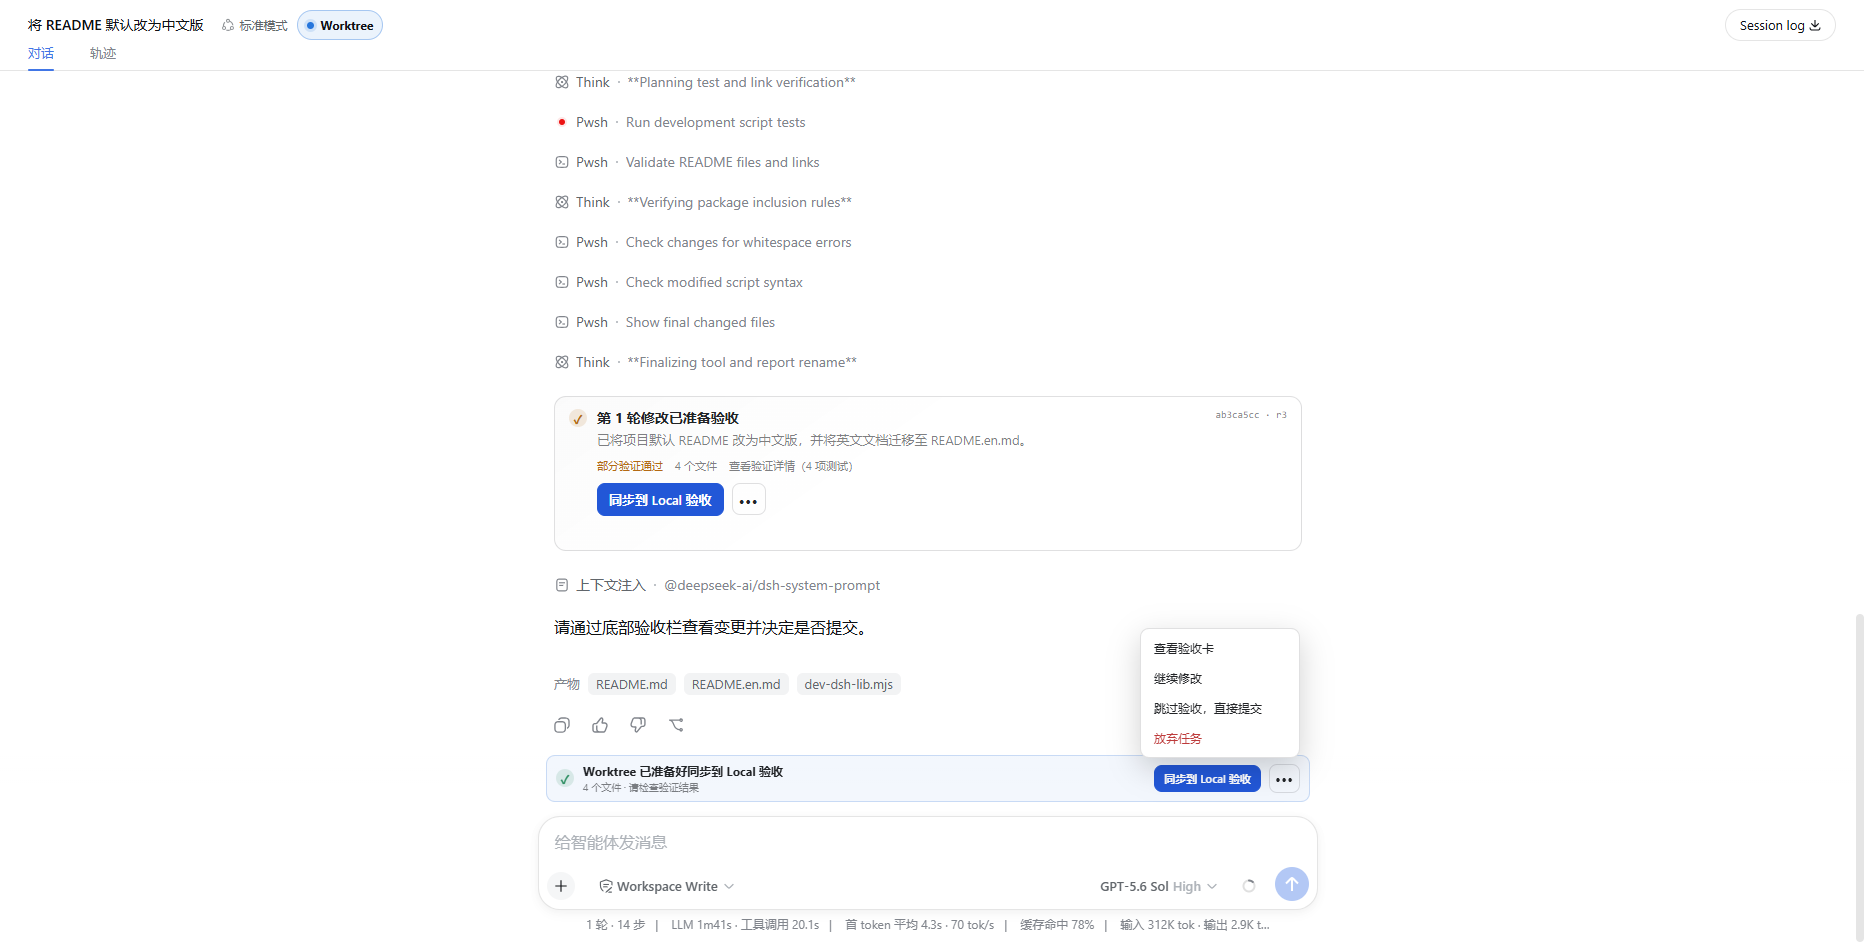
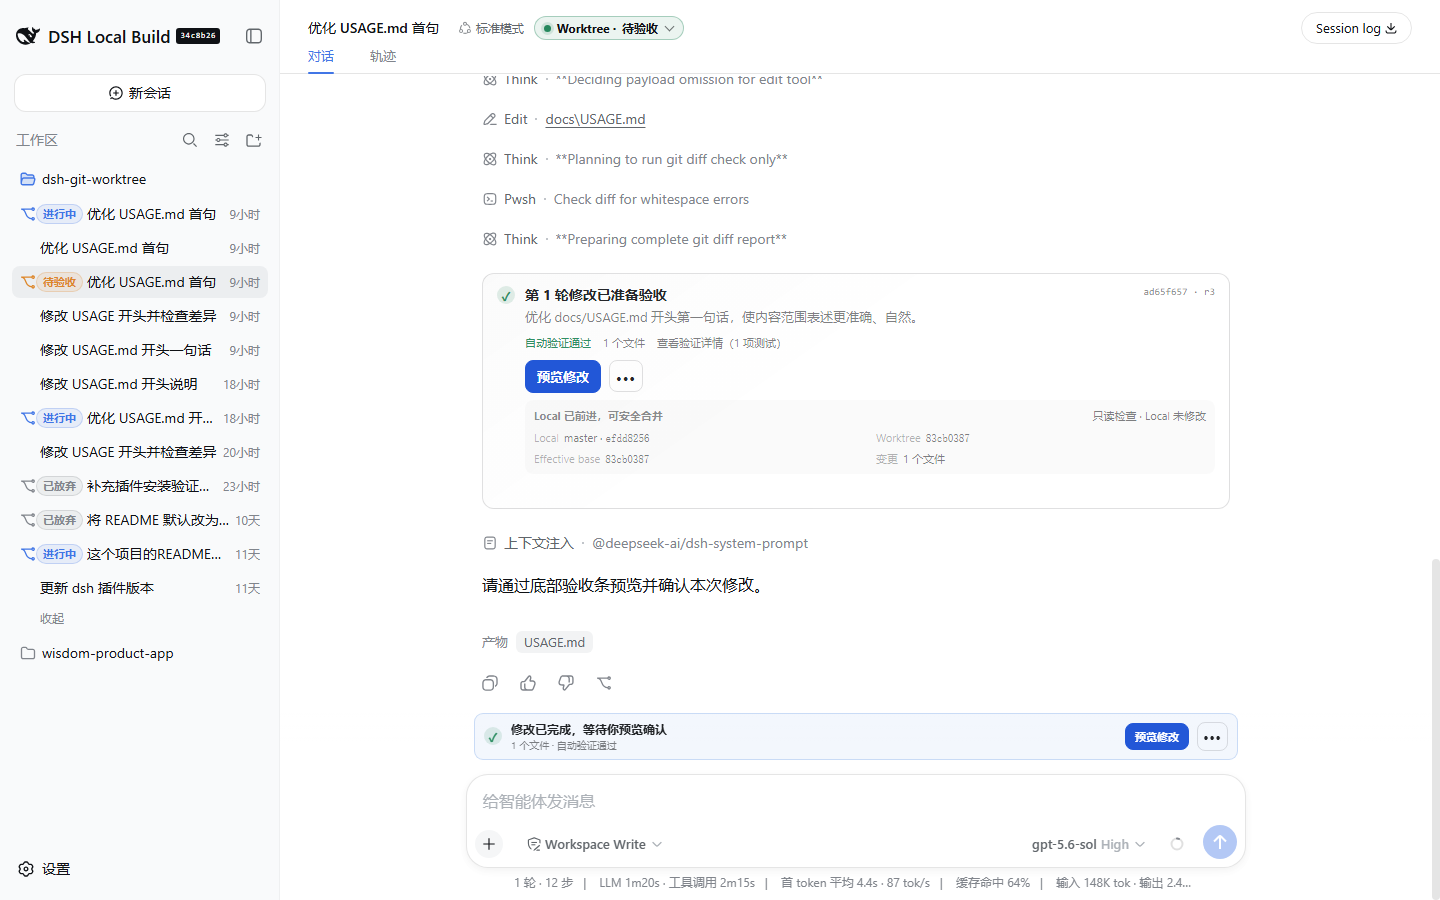
fix(sidebar): 恢复 Managed 会话整理操作
- 允许 Managed owner 使用官方重命名与归档且保持 Worktree 状态不变
- 从 Managed 菜单隐藏普通 Fork，并继续阻止第二 Session 与跨归属拖动
- 移除非法操作的浏览器原生提示框并强化冲突 Workspace 防护
- 修正双语 README、Usage、Release 与 0.7.0 Changelog 边界说明
- 更新项目聚合和 Ready 界面截图及发布回归门禁

diff --git a/tests/client-workspace-sidebar.test.tsx b/tests/client-workspace-sidebar.test.tsx
@@ -68,6 +68,8 @@ function browserProps(snapshot = state()): WorkspaceBrowserProps {
     useSessions: selector => selector(snapshot.sessions),
     useWorkspaces: selector => selector(snapshot.workspaces),
     startSession: vi.fn(),
+    open: vi.fn(),
+    renameSession: vi.fn(),
     forkSession: vi.fn(),
     archiveSession: vi.fn(),
     insertSessionBefore: vi.fn(),
@@ -79,6 +81,13 @@ function InspectBrowser(props: WorkspaceBrowserProps) {
   const sessions = props.useSessions(value => value.byId)
   return <div>
     <button onClick={() => { void props.startSession(managedWorkspace) }}>new managed</button>
+    <button onClick={() => { void props.renameSession(ownerSession, '新标题') }}>rename managed</button>
+    <button onClick={() => { void props.archiveSession(ownerSession) }}>archive managed</button>
+    <button onClick={() => { void props.forkSession(ownerSession) }}>fork managed</button>
+    <button onClick={() => { void props.insertSessionBefore(localWorkspace, ownerSession, localSession) }}>move managed</button>
+    <button onClick={() => { void props.renameSession(localSession, 'Local 新标题') }}>rename local</button>
+    <button onClick={() => { void props.archiveSession(localSession) }}>archive local</button>
+    <button onClick={() => { void props.forkSession(localSession) }}>fork local</button>
     {workspaces.map(workspace => <section key={workspace.workspaceId}>
       <h2>{workspace.title}</h2>
       {workspace.sessionIds.map(id => {
@@ -90,7 +99,7 @@ function InspectBrowser(props: WorkspaceBrowserProps) {
           data-worktree-kind={summary?.__dshGitWorktree?.kind}
           data-worktree-state={summary?.__dshGitWorktree?.state}
           data-worktree-label={summary?.__dshGitWorktree?.label}
-          onClick={() => { props.forkSession(id) }}
+          onClick={() => { props.open(id) }}
         >
           {summary?.displayTitle}
         </button>
@@ -136,7 +145,7 @@ describe('Managed Workspace sidebar', () => {
     expect(context.locale.register).toHaveBeenCalledWith('workspace', {})
   })
 
-  test('projects one owner Session directly into the Local project and blocks Managed Fork', async () => {
+  test('projects one owner Session, allows rename/archive, and silently blocks second-session operations', async () => {
     const alert = vi.spyOn(window, 'alert').mockImplementation(() => {})
     const props = browserProps()
     render(<ManagedOfficialWorkspaceBrowser
@@ -154,10 +163,25 @@ describe('Managed Workspace sidebar', () => {
     expect(screen.getByText('demo')).toBeTruthy()
     expect(screen.queryByText('demo--uuid--worktree')).toBeNull()
     fireEvent.click(owner)
+    fireEvent.click(screen.getByText('rename managed'))
+    fireEvent.click(screen.getByText('archive managed'))
+    fireEvent.click(screen.getByText('fork managed'))
+    fireEvent.click(screen.getByText('move managed'))
     fireEvent.click(screen.getByText('new managed'))
-    expect(props.forkSession).not.toHaveBeenCalled()
+    fireEvent.click(screen.getByText('rename local'))
+    fireEvent.click(screen.getByText('archive local'))
+    fireEvent.click(screen.getByText('fork local'))
+
+    expect(props.open).toHaveBeenCalledWith(ownerSession)
+    expect(props.renameSession).toHaveBeenCalledWith(ownerSession, '新标题')
+    expect(props.archiveSession).toHaveBeenCalledWith(ownerSession)
+    expect(props.renameSession).toHaveBeenCalledWith(localSession, 'Local 新标题')
+    expect(props.archiveSession).toHaveBeenCalledWith(localSession)
+    expect(props.forkSession).toHaveBeenCalledTimes(1)
+    expect(props.forkSession).toHaveBeenCalledWith(localSession)
+    expect(props.insertSessionBefore).not.toHaveBeenCalled()
     expect(props.startSession).not.toHaveBeenCalled()
-    expect(alert).toHaveBeenCalledTimes(2)
+    expect(alert).not.toHaveBeenCalled()
   })
 
   test('falls back to the untouched official projection when topology is unavailable', async () => {

diff --git a/src/client/workspace-sidebar/index.tsx b/src/client/workspace-sidebar/index.tsx
@@ -65,8 +65,10 @@ export function ManagedOfficialWorkspaceBrowser({
 
   const projectedWorkspaceState = useMemo<WorkspaceListState>(() => ({
     ...workspaceState,
-    items: projection.workspaces as unknown as WorkspaceListState['items'],
-  }), [projection.workspaces, workspaceState])
+    items: projection.workspaces.map(workspace => projection.protectedWorkspaceIds.has(workspace.workspaceId)
+      ? { ...workspace, __dshGitWorktreeProtected: true }
+      : workspace) as unknown as WorkspaceListState['items'],
+  }), [projection.protectedWorkspaceIds, projection.workspaces, workspaceState])
   const projectedSessionState = useMemo<SessionListState>(() => {
     const byId = { ...sessionState.byId }
     for (const sessionId of projection.suppressedSessionIds) delete byId[sessionId as keyof typeof byId]
@@ -98,35 +100,25 @@ export function ManagedOfficialWorkspaceBrowser({
     selector(projectedSessionState)) as WorkspaceBrowserProps['useSessions']
   const protectedIds = projection.protectedSessionIds
   const protectedWorkspaceIds = projection.protectedWorkspaceIds
-  const managedActionBlocked = (): void => {
-    window.alert('Managed Worktree 与 owner Session 一对一；请通过 Worktree 验收流程继续、保存或放弃任务。')
-  }
 
   return <OfficialBrowser
     {...props}
     useWorkspaces={useProjectedWorkspaces}
     useSessions={useProjectedSessions}
     startSession={async (workspaceId: WorkspaceId) => {
-      if (protectedWorkspaceIds.has(workspaceId)) managedActionBlocked()
-      else await props.startSession(workspaceId)
-    }}
-    renameSession={async (sessionId: SessionId, title: string) => {
-      if (protectedIds.has(sessionId)) managedActionBlocked()
-      else await props.renameSession(sessionId, title)
+      if (protectedWorkspaceIds.has(workspaceId)) return
+      await props.startSession(workspaceId)
     }}
     forkSession={(sessionId: SessionId) => {
-      if (protectedIds.has(sessionId)) managedActionBlocked()
-      else props.forkSession(sessionId)
-    }}
-    archiveSession={async (sessionId: SessionId) => {
-      if (protectedIds.has(sessionId)) managedActionBlocked()
-      else await props.archiveSession(sessionId)
+      if (protectedIds.has(sessionId)) return
+      props.forkSession(sessionId)
     }}
     insertSessionBefore={async (workspaceId: WorkspaceId, sessionId: SessionId, beforeSessionId?: SessionId) => {
-      if (protectedIds.has(sessionId) || (beforeSessionId !== undefined && protectedIds.has(beforeSessionId))) {
-        managedActionBlocked()
-        return
-      }
+      if (
+        protectedWorkspaceIds.has(workspaceId)
+        || protectedIds.has(sessionId)
+        || (beforeSessionId !== undefined && protectedIds.has(beforeSessionId))
+      ) return
       await props.insertSessionBefore(workspaceId, sessionId, beforeSessionId)
     }}
   />

diff --git a/tests/client-workspace-sidebar-profile.test.ts b/tests/client-workspace-sidebar-profile.test.ts
@@ -53,6 +53,11 @@ describe('Managed Workspace profile ownership', () => {
     expect(source).toContain('worktreeDecoration.ariaLabel')
     expect(source).toContain('"data-managed-worktree": "true"')
     expect(source).toContain('className: Rows_module_css_default.hoverStatus')
+    expect(source).toContain('worktreeDecoration === void 0 ? sessionMenuItems : sessionMenuItems.filter((item) => item.id !== "fork")')
+    expect(source).toContain('items: visibleSessionMenuItems')
+    expect(source).toContain('draggable: worktreeDecoration === void 0 && drag !== void 0')
+    expect(source).toContain('!protectedManagedWorkspace && (0, react_jsx_runtime.jsx)("button"')
+    expect(source).toContain('draggable: !protectedManagedWorkspace && drag !== void 0')
     expect(WORKTREE_STYLES).toContain('.dsh-git-worktree-sidebar-icon')
     expect(WORKTREE_STYLES).toContain('.dsh-git-worktree-sidebar-badge')
     expect(WORKTREE_STYLES).toContain('flex: 0 0 auto')

diff --git a/README.en.md b/README.en.md
@@ -24,8 +24,8 @@ When an agent edits Local directly, task changes can mix with existing staged, u
 
 ## Highlights
 
-- **Project-grouped sidebar**: each managed Worktree owner Session appears as a task row under its original Local project with lifecycle status, while ordinary Workspaces retain the official behavior.
-- **Real isolation**: every task gets its own Git Worktree, Workspace, and owner Session.
+- **Project-grouped sidebar**: each Managed owner appears under its original Local project with a Branch Icon and status Badge; ordinary Local Sessions keep the official behavior.
+- **Real isolation**: every task gets its own Git Worktree, Workspace, and unique owner Session.
 - **Human acceptance**: Ready lets the user choose **Preview changes**, **Confirm and save**, or another explicit action.
 - **Reversible Preview**: changes reach Local without an immediate Commit and can be rolled back safely.
 - **Task-only save**: final delivery creates one Commit for the accumulated task delta.
@@ -93,23 +93,15 @@ If pnpm build approval blocks a Git-source install, or you need complete command
 
 ## Screenshots
 
-### Create a Worktree Session
+### Project grouping and task status
 
-![Confirm creation and switch to the Worktree Session](docs/screenshots/01-create-worktree.png)
+![Managed Worktrees grouped under the original Local project](docs/screenshots/00-project-sidebar.png)
 
 ### Prepare the review
 
-![Agent completes the task and produces Ready for Review](docs/screenshots/02-ready-for-review.png)
+![Agent completes the task and prepares Preview changes](docs/screenshots/02-ready-for-review.png)
 
-### Preview changes
-
-![Changes are in Local Preview and await confirmation](docs/screenshots/03-local-preview.png)
-
-### Confirm and save
-
-![Confirm save and choose environment retention](docs/screenshots/04-commit-confirmation.png)
-
-See the [full usage guide](docs/USAGE.en.md#complete-delivery-example) for the remaining screenshots.
+See the [full usage guide](docs/USAGE.en.md#complete-delivery-example) for the complete flow.
 
 ## Safety boundary
 
@@ -122,7 +114,8 @@ For the full state machine, CAS, and recovery invariants, see:
 
 ## Current boundaries
 
-- Harness still displays Local and Worktree Sessions as separate Workspaces.
+- A normal Managed owner is grouped under its original Local project. If the owner is missing, another Session exists, or membership conflicts, the original Workspace remains visible instead of hiding uncertain data.
+- Managed owners can be renamed and archived. Worktree-aware Fork is not implemented yet, so the ordinary Fork action is hidden in this release.
 - Child agents inherit the parent Session cwd; the plugin does not create per-child Worktrees.
 - Checkpoint does not support editing, deleting, reordering, or arbitrary rollback of history.
 - Domi's global Manager, Local Maintenance, dependency snapshots, and full collaborator lifecycle are outside this plugin's scope.

diff --git a/docs/USAGE.en.md b/docs/USAGE.en.md
@@ -43,8 +43,9 @@ No Worktree is created before confirmation. The draft moves to a new isolated Se
 
 A Local project can still contain multiple ordinary Sessions. Each Managed Worktree has exactly one owner Session, so the sidebar shows that task Session and its delivery state directly instead of creating a UUID Workspace at the top level or an empty Worktree → Session nesting layer.
 
-- A Managed row opens its unique owner Session directly.
-- Ordinary rename, Fork, archive, drag, and New Session actions are blocked for Managed rows so they cannot create a second Session or bypass the Worktree lifecycle.
+- A Managed row opens its unique owner Session directly and keeps the official rename and archive actions. Archiving only changes sidebar visibility; it does not discard the task or change Worktree state.
+- Ordinary Fork is hidden in this release. A correct Worktree-aware Fork must create a new Managed Worktree and owner Session and is deferred to a later release.
+- Dragging Managed rows and creating a New Session inside a Managed Workspace remain blocked so they cannot create a second Session or break ownership.
 - A provably empty pre-session launcher is hidden from the sidebar projection; a real extra Session keeps the original Workspace visible for manual handling.
 - After cleanup, historical tasks remain under the original project as Completed or Discarded using the plugin Registry.
 - Unmanaged Workspaces and ordinary Sessions retain normal Workspace actions.
@@ -205,25 +206,19 @@ Read the Preflight message first. The cause may be a conflict, stale Review, bus
 
    ![Create Worktree Session](screenshots/01-create-worktree.png)
 
-2. The agent produces Ready for Review:
+2. The Managed owner is grouped under the original project and keeps its current task status visible:
+
+   ![Project-grouped sidebar](screenshots/00-project-sidebar.png)
+
+3. The agent produces Ready for Review with **Preview changes** as the primary action:
 
    ![Ready for Review](screenshots/02-ready-for-review.png)
 
-3. Preview changes:
+4. Inspect the result in Local Preview. Choose **Confirm and save**, or use the More menu to **Withdraw this preview**.
+5. On save, clean up immediately or retain the runtime environment when needed.
+6. After cleanup, choose **Start next iteration** in the same owner Session.
 
-   ![Local Preview](screenshots/03-local-preview.png)
-
-4. Confirm and save, choosing cleanup or retention:
-
-   ![Save confirmation](screenshots/04-commit-confirmation.png)
-
-5. Start the next iteration in the same Session:
-
-   ![Start next iteration](screenshots/05-next-iteration.png)
-
-6. Retain the runtime environment:
-
-   ![Retain environment](screenshots/06-retain-environment.png)
+> UI copy follows the installed version. This guide no longer embeds screenshots with the retired “Sync to Local review / Accept and commit” wording.
 
 ## Local development
 

diff --git a/docs/USAGE.md b/docs/USAGE.md
@@ -43,8 +43,9 @@ stateDiagram-v2
 
 Local 项目仍可包含多个普通会话。每个 Managed Worktree 只对应一个 owner Session，因此侧边栏直接显示任务会话和状态，不再把 UUID Worktree 作为独立顶级项目，也不会增加“Worktree → Session”的空层级。
 
-- Managed 行可直接打开 owner Session；
-- Managed 行的普通重命名、Fork、归档、拖动和“新会话”会被阻止，避免产生第二个 Session 或绕过 Worktree 生命周期；
+- Managed 行可直接打开 owner Session，并保留官方重命名与归档；归档只影响侧边栏可见性，不会放弃任务或改变 Worktree 状态；
+- 普通 Fork 在本版隐藏；正确的 Worktree-aware Fork 需要创建新的 Managed Worktree 与 owner Session，将在后续版本提供；
+- Managed 行拖动和 Managed Workspace 的“新会话”入口会被阻止，避免产生第二个 Session 或破坏归属；
 - 可证明为空的预会话 launcher 会从侧边栏投影中隐藏，真实额外 Session 则保留原 Workspace 以便人工处理；
 - cleanup 后，历史任务仍按 Registry 归入原项目并显示“已完成”或“已放弃”；
 - 非托管 Workspace 和普通会话继续使用标准 Workspace 操作。
@@ -205,25 +206,19 @@ allowBuilds:
 
    ![创建 Worktree Session](screenshots/01-create-worktree.png)
 
-2. Agent 生成 Ready for Review：
+2. Managed owner 聚合到原项目，并持续显示当前任务状态：
+
+   ![项目聚合侧边栏](screenshots/00-project-sidebar.png)
+
+3. Agent 完成后生成 Ready for Review，主操作为“预览修改”：
 
    ![Ready for Review](screenshots/02-ready-for-review.png)
 
-3. 预览修改：
+4. Local Preview 中确认实际效果；可以“确认并保存”，也可以从更多菜单“撤回本次预览”。
+5. 保存时选择立即 cleanup，或按需保留运行环境。
+6. cleanup 完成后，可在同一 owner Session 中“开始下一轮修改”。
 
-   ![Local Preview](screenshots/03-local-preview.png)
-
-4. 确认并保存，选择 cleanup 或保留环境：
-
-   ![保存确认](screenshots/04-commit-confirmation.png)
-
-5. 在同一 Session 开始下一轮：
-
-   ![开始下一轮](screenshots/05-next-iteration.png)
-
-6. 保留运行环境：
-
-   ![保留环境](screenshots/06-retain-environment.png)
+> 界面文案以当前安装版本为准。本指南不再展示旧版“同步到 Local 验收 / 验收通过并提交”截图。
 
 ## 本地开发
 

diff --git a/README.md b/README.md
@@ -24,8 +24,8 @@
 
 ## 核心能力
 
-- **真实隔离**：每个任务拥有独立 Git Worktree、Workspace 和 owner Session。
-- **项目聚合侧边栏**：Managed Worktree 的 owner Session 直接归入原 Local 项目，以任务行展示生命周期状态；普通 Workspace 保留官方行为。
+- **真实隔离**：每个任务拥有独立 Git Worktree、Workspace 和唯一 owner Session。
+- **项目聚合侧边栏**：Managed owner 以 Branch Icon 和状态 Badge 直接归入原 Local 项目；普通 Local Session 保持官方行为。
 - **人工验收**：Ready 后由用户选择“预览修改”“确认并保存”或其他操作。
 - **可撤回 Preview**：预览写入 Local 但不立即创建 Commit，可安全撤回。
 - **单任务保存**：最终只为本轮累计增量创建一个 Commit。
@@ -93,23 +93,15 @@ dsh plugin --profile web add github:wloops/dsh-git-worktree#v0.7.0
 
 ## 界面预览
 
-### 创建 Worktree Session
+### 项目聚合与任务状态
 
-![确认创建并切换到 Worktree Session](docs/screenshots/01-create-worktree.png)
+![Managed Worktree 聚合到原 Local 项目](docs/screenshots/00-project-sidebar.png)
 
 ### 准备验收
 
-![Agent 完成任务并生成 Ready for Review](docs/screenshots/02-ready-for-review.png)
+![Agent 完成任务并准备预览修改](docs/screenshots/02-ready-for-review.png)
 
-### 预览修改
-
-![修改已写入 Local Preview，等待确认](docs/screenshots/03-local-preview.png)
-
-### 确认并保存
-
-![确认保存并选择环境保留策略](docs/screenshots/04-commit-confirmation.png)
-
-更多截图见[完整使用指南](docs/USAGE.md#完整交付示例)。
+完整操作步骤见[完整使用指南](docs/USAGE.md#完整交付示例)。
 
 ## 安全边界
 
@@ -122,7 +114,8 @@ dsh plugin --profile web add github:wloops/dsh-git-worktree#v0.7.0
 
 ## 当前边界
 
-- Local 与 Worktree Session 在 Harness 中仍显示为独立 Workspace。
+- 正常 Managed owner 会聚合到原 Local 项目；owner 缺失、额外 Session 或归属冲突时保留原 Workspace，避免静默隐藏数据。
+- Managed owner 可以重命名和归档；Worktree-aware Fork 尚未实现，本版不显示普通 Fork 入口。
 - 子 Agent 继承父 Session cwd，插件不额外创建 per-child Worktree。
 - Checkpoint 不提供历史编辑、删除、重排或任意回退。
 - Domi 的全局 Manager、Local Maintenance、依赖快照和完整 collaborator 生命周期不在本插件范围内。

diff --git a/CHANGELOG.md b/CHANGELOG.md
@@ -15,10 +15,11 @@
 ### Changed
 
 - Managed Workspace 不再以 UUID 长路径重复占用顶级项目；cleanup 后的历史 owner Session 继续依据插件 Registry 归入原 Local 项目。
-- Managed 任务行仅用于打开 owner Session，普通重命名、Fork、归档和拖动会被阻止，避免产生第二个会话或绕过 Worktree 生命周期；非托管 Workspace 保留官方操作，拓扑不可用时完整回退到原 Workspace 列表。
+- Managed 任务行可打开、重命名和归档 owner Session；归档仅影响侧边栏可见性，不改变 Worktree 状态。普通 Fork 本版隐藏，正确的新 Worktree + 新 owner 分叉能力留待后续；Managed 拖动和新建第二 Session 继续阻止。非托管 Workspace 保留官方操作，拓扑不可用时完整回退到原 Workspace 列表。
 - 修复项目聚合 Browser 的两阶段真实启动回归：先消除重复 `sidebar.workspaces.directoryFlow` 声明，再改为版本与 SHA-256 门禁的官方 Workspace Client 单次衍生加载，保留 `renderSlot`/目录选择授权，避免 shadow 崩溃后静默回退官方侧栏。
 - Managed Workspace 中可证明为空的预会话 launcher 不再阻止聚合；真实第二个 Session 仍 fail-open，物理 Workspace 未归并时也会禁止通过官方“新会话”入口创建第二个 Session。
 - Managed owner 行改用官方 Branch Icon 与独立状态 Badge，任务标题保持原文；窄侧栏会优先保留 Worktree 身份和交付状态，而不是把状态截断在标题末尾。
+- 修复 Managed owner 的菜单边界：重命名与归档恢复官方行为，普通 Fork 从菜单隐藏，非法 new-session/Fork/drag 的防御路径不再弹出浏览器原生提示框。
 
 ## [0.6.1] - 2026-08-28
 

diff --git a/docs/RELEASE.md b/docs/RELEASE.md
@@ -7,6 +7,7 @@
 ```bash
 pnpm run typecheck
 pnpm test
+pnpm run check:sidebar-version
 pnpm run build
 pnpm run check:publish
 pnpm pack --dry-run
@@ -14,7 +15,8 @@ pnpm pack --dry-run
 
 当前 `check-publish` 断言：
 
-- `cordis.patch.yml` 存在、会进入 tarball，并插入本包 Host row；
+- `cordis.patch.yml` 存在、会进入 tarball，禁用原官方 `ui-workspace` row，并插入本包 Host row；
+- 锁定的官方 Workspace Client 版本与 SHA-256 未漂移，`NOTICE` 会进入 tarball；
 - `package.json.exports` 的每个 default/types/path target 都真实存在且受 `files` 覆盖；
 - Host `lib/index.js` 命名导出 `apply` 与 `inject`；
 - `dsh.client` 声明 Web 平台和 client injection；
@@ -87,7 +89,9 @@ dsh --profile <scratch>
 - profile bundle rows 含 `dsh-git-worktree`；
 - Host 启动无 missing inject/export 错误；
 - Web Client 加载 `./client`，Create/Review ToolView 不是 generic card；
-- 浏览器控制台无 `ModuleLoader`、React duplicate、slot duplicate 或 CSS teardown 错误；
+- 聚合侧边栏中正常 Managed UUID Workspace 消失，owner 行显示 Branch Icon 与状态 Badge，约 240px 窄侧栏仍可识别；
+- Managed owner 菜单保留重命名与归档、隐藏普通 Fork；Managed Workspace 不显示新建第二 Session 入口，普通 Local 菜单保持官方行为；
+- 浏览器控制台无 `ModuleLoader`、React duplicate、slot duplicate、`renderSlot` 或 CSS teardown 错误；
 - npm tarball 与 Git tag 安装都通过。
 
 全部通过后再升级正式 profile。
